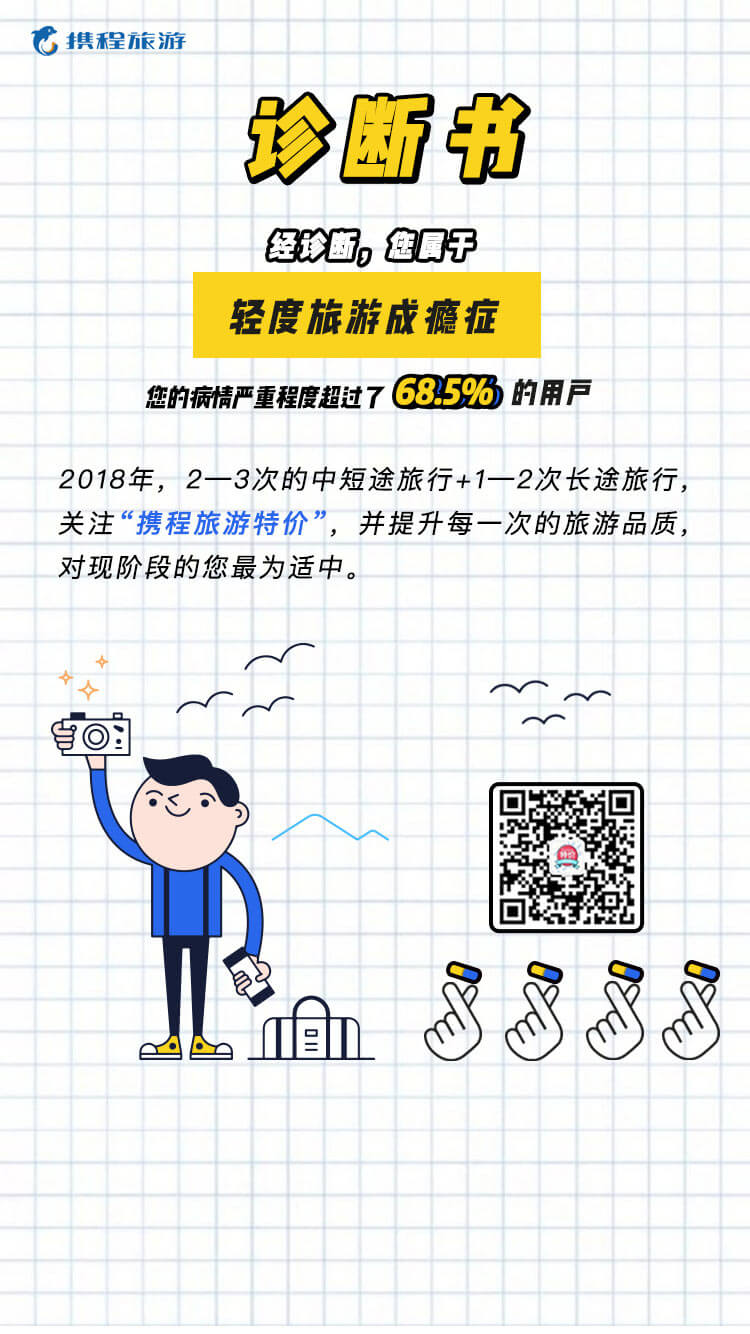
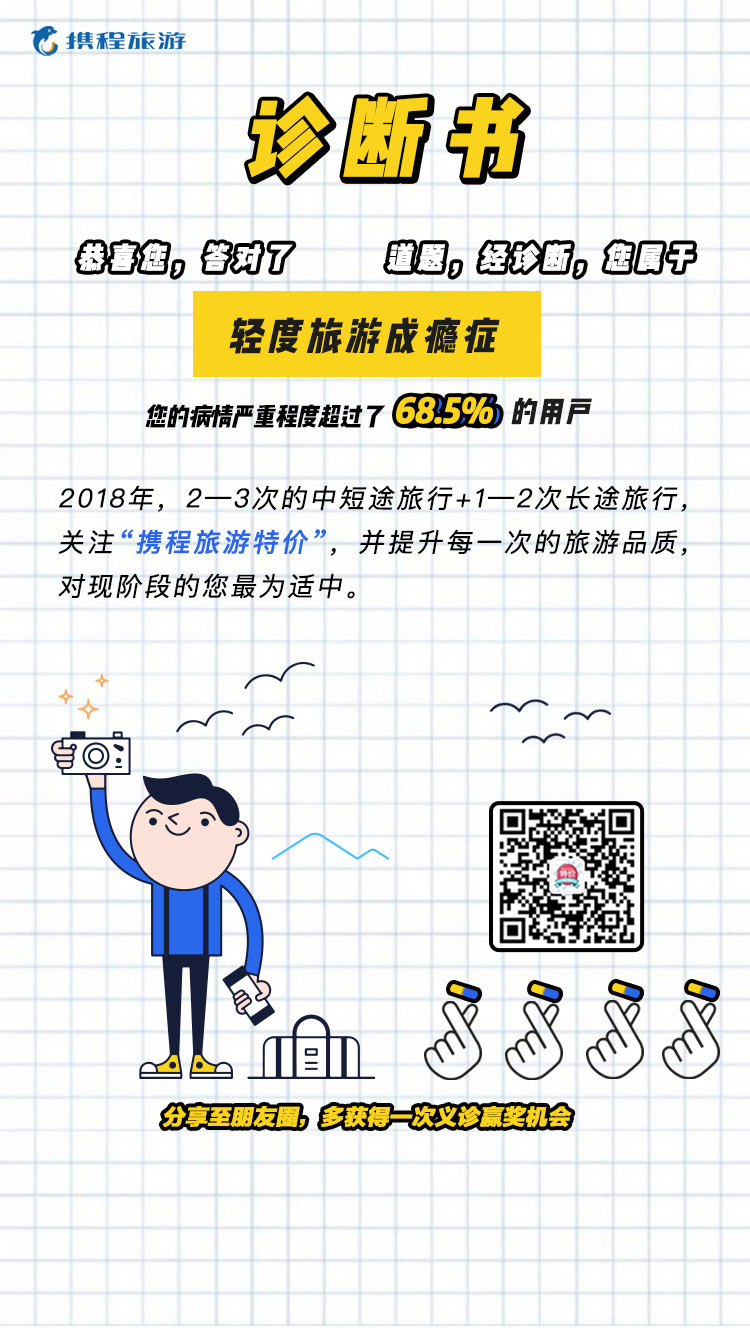
H5Web

diff --git a/H5web/ctripQuest/js/main.js b/H5web/ctripQuest/js/main.js
@@ -35,18 +35,22 @@ var questTemplate = "<div class='quest-box'>\
             <div class='quest-end-wrapper'>\
                 <div class='quest-item-end' v-show='results.show1'>\
                     <img src='images/show1.jpg'>\
+                    <div class='quest-end-results'>{{correctCount}}</div>\
                     <div class='quest-code'>\
                         {{code}}\
                     </div>\
                 </div>\
                 <div class='quest-item-end' v-show='results.show2'>\
                     <img src='images/show2.jpg'>\
+                    <div class='quest-end-results'>{{correctCount}}</div>\
                 </div>\
                 <div class='quest-item-end' v-show='results.show3'>\
                     <img src='images/show3.jpg'>\
+                    <div class='quest-end-results'>{{correctCount}}</div>\
                 </div>\
                 <div class='quest-item-end' v-show='results.show4'>\
                     <img src='images/show4.jpg'>\
+                    <div class='quest-end-results quest-end-result4'>{{correctCount}}</div>\
                 </div>\
             </div>\
         </div>\
@@ -120,8 +124,8 @@ window.vm = new Vue({
             this.wrongCount++;
         },
         start : function(){
-            if( localStorage.count == 1 ){
-                localStorage.count = 0;
+            if( localStorage.count > 0 ){
+                localStorage.count--;
                 this.cando = true;
             }
 
@@ -151,13 +155,17 @@ window.vm = new Vue({
                 this.results.show1 = true;
                 var code = Math.random().toString(36).substr(2).substring(0,8);
                 this.code = code;
+                changeDESC("我是旅游重度患者，我的病情严重程度超过了98.8%人");
                 this.ajax(code);
             } else if( num <= 2 ){
                 this.results.show2 = true;
+                changeDESC("我是旅游中度患者，我的病情严重程度超过了88.7%人");
             } else if( num <= 5 ){
                 this.results.show3 = true;
+                changeDESC("我是旅游轻度患者，我的病情严重程度超过了68.5%人");
             } else {
                 this.results.show4 = true;
+                changeDESC("我不是旅游成瘾患者，我的病情严重程度超过了48.3%人");
             }
         },
         next : function(index){
@@ -194,6 +202,7 @@ window.vm = new Vue({
 
             if( today != date){
                 localStorage.count = 1;
+                localStorage.hasShared = false;
                 localStorage.date = today;
             }
         },
@@ -261,6 +270,7 @@ var changeIcon = (function(){
         return function(type){
             if(type){
                 container.classList.add('music-animate')
+                container.setAttribute("data-type","play");
                 return false;
             }
 
@@ -270,15 +280,18 @@ var changeIcon = (function(){
                 ? cTransform
                 : cTransform.concat(' ', iTransform);
             container.classList.remove('music-animate');
+            container.setAttribute("data-type","pause");
         };
     }
 
     return function(type){
         if(type){
             $(".music").removeClass("pause");
+            $(".music").attr("data-type","play");
             return false;
         }
         $(".music").addClass("pause");
+        $(".music").attr("data-type","pause")
     };
 
 })();

diff --git a/H5web/ctripQuest/css/main.css b/H5web/ctripQuest/css/main.css
@@ -171,10 +171,18 @@ img{
 
 .quest-item-answer{
     position: relative;
-    width: 5.3rem;
+    width: 5.43rem;
     height: 0.84rem;
     margin: 0 auto;
     margin-bottom: 0.2rem;
+    box-sizing: border-box;
+    -webkit-transform: translateX(0.05rem);
+    transform: translateX(0.05rem);
+}
+
+.quest-item-answer[data-selected="true"]{
+    border: 0.1rem solid #ff0000;
+    border-radius: 18px 15px 15px 18px;
 }
 
 .quest-item-answer:after{
@@ -185,13 +193,13 @@ img{
     height: 0.4rem;
     right: 0.2rem;
     top: 0.24rem;
-    background: url("../images/cor.png") no-repeat;
-    background-size: cover;
 }
 
-.quest-item-answer[data-selected="true"]:after{
+/*.quest-item-answer[data-selected="true"]:after{
+    background: url("../images/cor.png") no-repeat;
+    background-size: cover;
     display : block;
-}
+}*/
 
 .quest-end-wrapper{
     position: absolute;
@@ -205,6 +213,27 @@ img{
 .quest-item-end{
     position: relative;
     height: auto;
+}
+
+.quest-end-results{
+    position: absolute;
+    width: 0.8rem;
+    height: auto;
+    left: 2.38rem;
+    top: 1.64rem;
+    font-size: 0.6rem;
+    font-style: italic;
+    font-weight: bolder;
+    text-align: center;
+    color: #fad31d;
+    text-shadow: 1px 1px #000000;
+    z-index: 10;
+}
+
+.quest-end-result4{
+    width: 0.7rem;
+    left: 3.28rem;
+    top: 1.85rem;
 }
 
 .quest-code{
@@ -262,6 +291,22 @@ img{
 .pause{
     -webkit-animation-play-state: paused;
     animation-play-state: paused;
+}
+
+img[data-type="pause"]{
+    display: none;
+}
+
+img[data-type="play"]{
+    display: block;
+}
+
+.music[data-type="pause"] img[data-type="pause"]{
+    display: block;
+}
+
+.music[data-type="pause"] img[data-type="play"]{
+    display: none;
 }
 
 @-webkit-keyframes rotate{

diff --git a/H5web/ctripQuest/index.html b/H5web/ctripQuest/index.html
@@ -6,7 +6,7 @@
 <title>旅游义诊大会</title>
 <link rel="stylesheet" type="text/css" href="css/style.css">
 <link rel="stylesheet" type="text/css" href="css/animate.min.css">
-<link rel="stylesheet" type="text/css" href="css/main.css?v=1.04">
+<link rel="stylesheet" type="text/css" href="css/main.css?v=1.071">
 <script>
 var _hmt = _hmt || [];
 (function() {
@@ -26,7 +26,8 @@ var _hmt = _hmt || [];
         </div>
     </div>
     <div class="music music-animate">
-        <img src="images/music.png">
+        <img src="images/music.png" data-type="play">
+        <img src="images/pause.png" data-type="pause">
         <audio src="bgm.mp3" style="display: none;" loop="loop" id="bgm"></audio>
     </div>
     <div class='alertBox'></div>
@@ -36,8 +37,8 @@ var _hmt = _hmt || [];
 <script src="https://res.wx.qq.com/open/js/jweixin-1.2.0.js" type="text/javascript"></script>
 <script type="text/javascript" src="js/jquery.min.js"></script>
 <script type="text/javascript" src="js/vue.min.js"></script>
-<script type="text/javascript" src="js/share.js"></script>
-<script type="text/javascript" src="js/c.js?v=1.01"></script>
-<script type="text/javascript" src="js/main.js?ver=1.03"></script>
+<script type="text/javascript" src="js/share.js?v=1.03"></script>
+<script type="text/javascript" src="js/c.js?v=1.011"></script>
+<script type="text/javascript" src="js/main.js?ver=1.042"></script>
 </body>
 </html>

diff --git a/H5web/ctripQuest/js/share.js b/H5web/ctripQuest/js/share.js
@@ -3,9 +3,15 @@
 var signurl = window.location.href;
 
 var TITLE = "旅游义诊大会", //微信标题
-    DESC = "关爱生命，靓丽出游"  //微信描叙
+    DESC = "关爱生命，量力出游", //微信描叙
     IMGURL = "https://web.aochey.com/ctripQuest/share.jpg", //分享图片地址
     LINK = "https://web.aochey.com/ctripQuest/"; //分享来源链接
+
+window.changeDESC = function(value){
+    value = value || "关爱生命，量力出游";
+    DESC = value;
+    goReady();
+};
 
 $.ajax({
     type:'post',
@@ -59,7 +65,7 @@ function goReady(){
             success: function (res) {
                 if(!localStorage.hasShared){
                     localStorage.hasShared = true;
-                    localStorage.count = 1;
+                    localStorage.count++;
                 }
             },
             cancel: function (res) {
@@ -78,7 +84,7 @@ function goReady(){
             success: function () {
                 if(!localStorage.hasShared){
                     localStorage.hasShared = true;
-                    localStorage.count = 1;
+                    localStorage.count++;
                 }
             },
             cancel: function () { 
